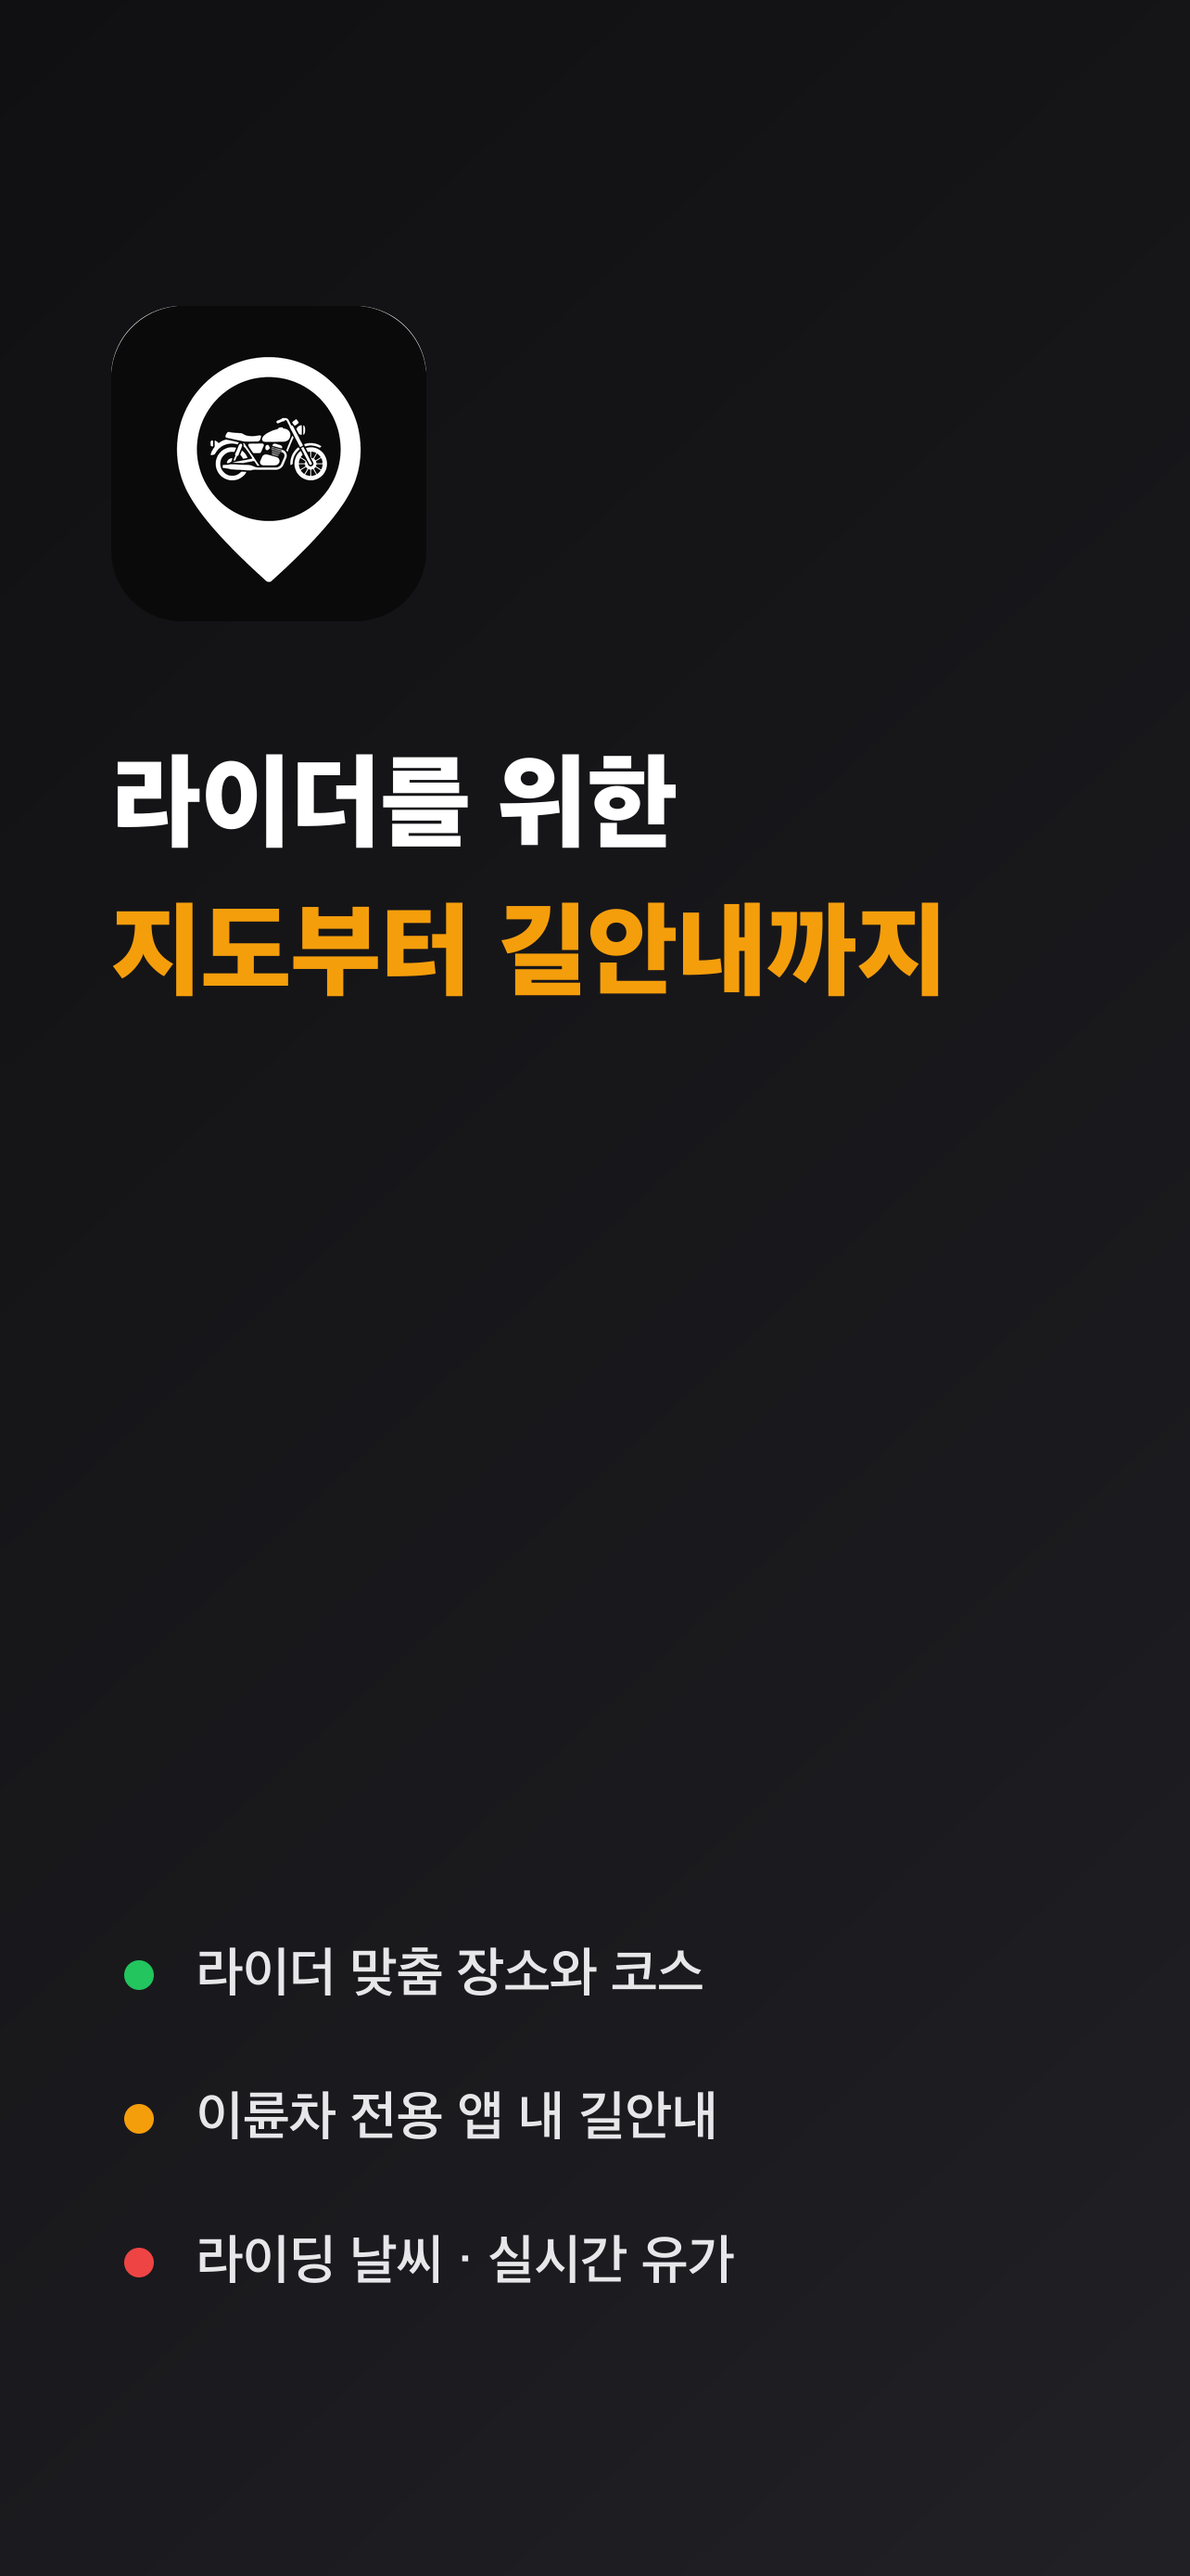
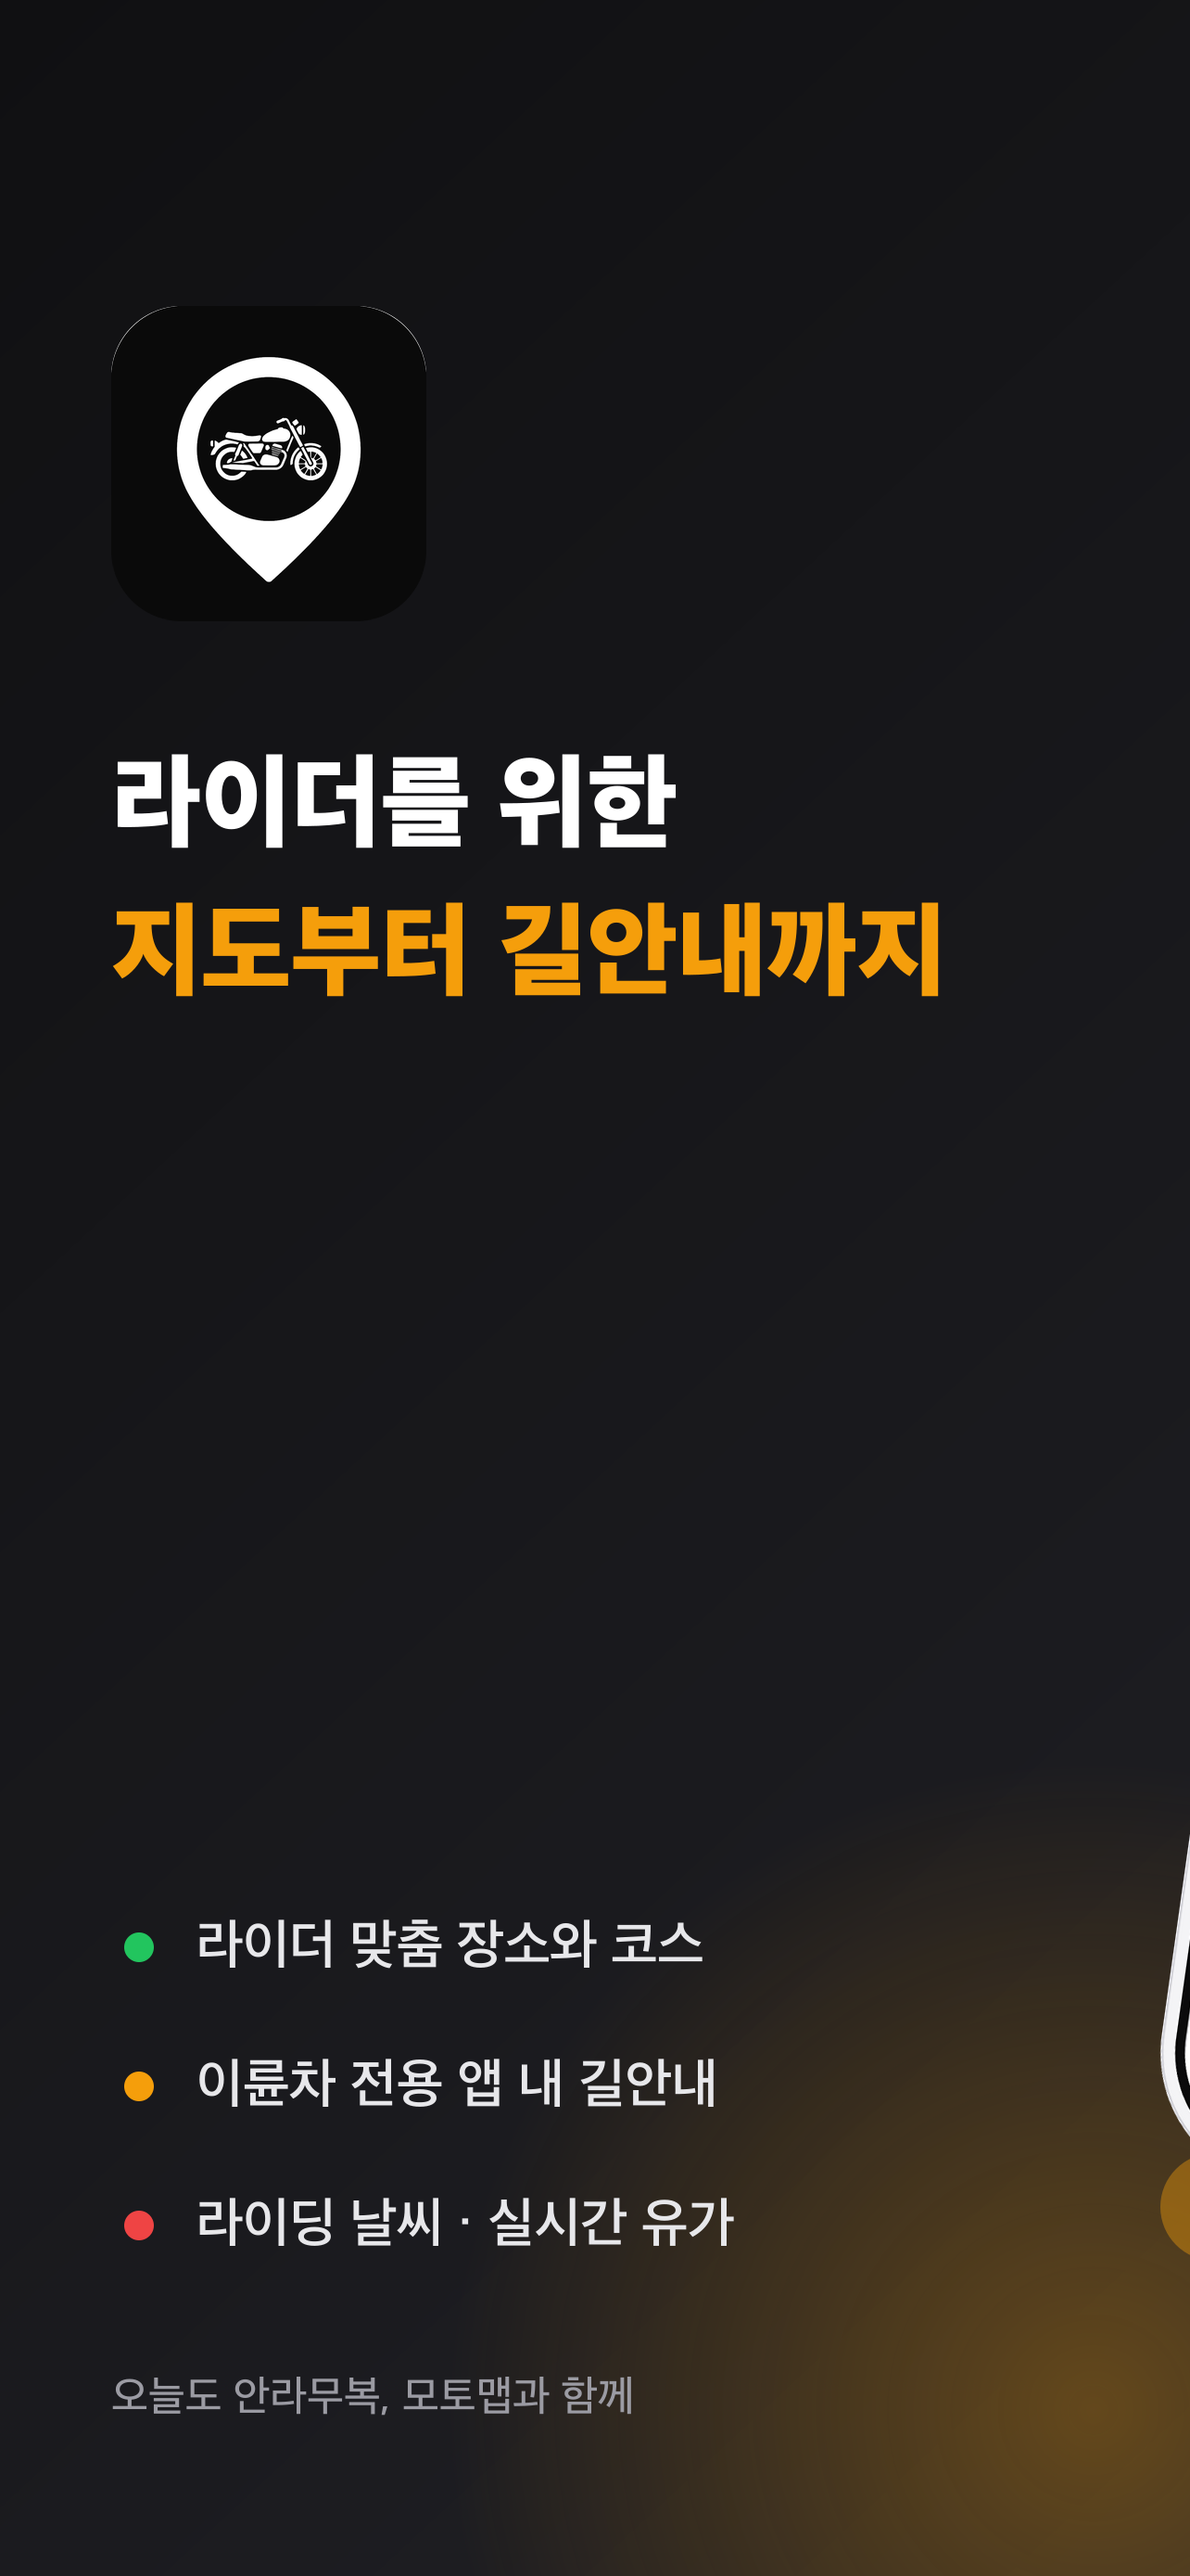
docs: white 3D phone hero with corner peek and amber accents
White body + black bezel + silver side edge via the PIL perspective
step; bottom-left corner rests on page 1 with the body on page 2.
Amber glows and dots decorate the shared background, and a closing
line joins the feature list.

diff --git a/scripts/hero-phone-3d.py b/scripts/hero-phone-3d.py
@@ -1,0 +1,54 @@
+# 평면 폰 목업에 3D 느낌을 입힌다 — 화면을 왼쪽(카피 쪽)으로 살짝 돌린
+# 원근 변환 + 오른쪽 측면 두께(화이트 바디) + 기울기. generate-hero.mjs 가 호출한다.
+#   python3 scripts/hero-phone-3d.py <입력 평면 목업> <출력>
+import sys
+from PIL import Image, ImageDraw
+
+
+def find_coeffs(dst, src):
+    """dst 사각형 -> src 사각형 원근 계수 (8원 연립, 가우스 소거)"""
+    a = []
+    b = []
+    for (x, y), (u, v) in zip(dst, src):
+        a.append([x, y, 1, 0, 0, 0, -u * x, -u * y])
+        b.append(u)
+        a.append([0, 0, 0, x, y, 1, -v * x, -v * y])
+        b.append(v)
+    n = 8
+    m = [row[:] + [b[i]] for i, row in enumerate(a)]
+    for col in range(n):
+        pivot = max(range(col, n), key=lambda r: abs(m[r][col]))
+        m[col], m[pivot] = m[pivot], m[col]
+        for r in range(n):
+            if r != col and m[r][col] != 0:
+                f = m[r][col] / m[col][col]
+                for c in range(col, n + 1):
+                    m[r][c] -= f * m[col][c]
+    return [m[i][n] / m[i][i] for i in range(n)]
+
+
+def main():
+    src_path, out_path = sys.argv[1], sys.argv[2]
+    img = Image.open(src_path).convert('RGBA')
+    w, h = img.size
+
+    # 왼쪽 가장자리를 안쪽·위아래로 수축 — 화면이 왼쪽을 향해 돌아간 원근
+    inset_x, inset_y = 78, 50
+    dst = [(inset_x, inset_y), (w, 0), (w, h), (inset_x, h - inset_y)]
+    src = [(0, 0), (w, 0), (w, h), (0, h)]
+    persp = img.transform((w, h), Image.PERSPECTIVE, find_coeffs(dst, src), Image.BICUBIC)
+
+    # 오른쪽 측면 두께 — 화이트 바디의 옆면(밝은 실버)이 보이게 폰 뒤에 깐다
+    side = 30
+    canvas = Image.new('RGBA', (w + side + 4, h), (0, 0, 0, 0))
+    d = ImageDraw.Draw(canvas)
+    d.rounded_rectangle([w - 18, 4, w + side, h - 4], radius=22, fill=(214, 214, 220, 255))
+    d.rounded_rectangle([w + side - 4, 44, w + side, h - 44], radius=2, fill=(188, 188, 196, 255))
+    canvas.alpha_composite(persp, (0, 0))
+
+    # 살짝 기울이기 (시계 방향 — 좌하단 코너가 가장 왼쪽에 오는 방향)
+    out = canvas.rotate(-8, expand=True, resample=Image.BICUBIC)
+    out.save(out_path)
+
+
+main()
